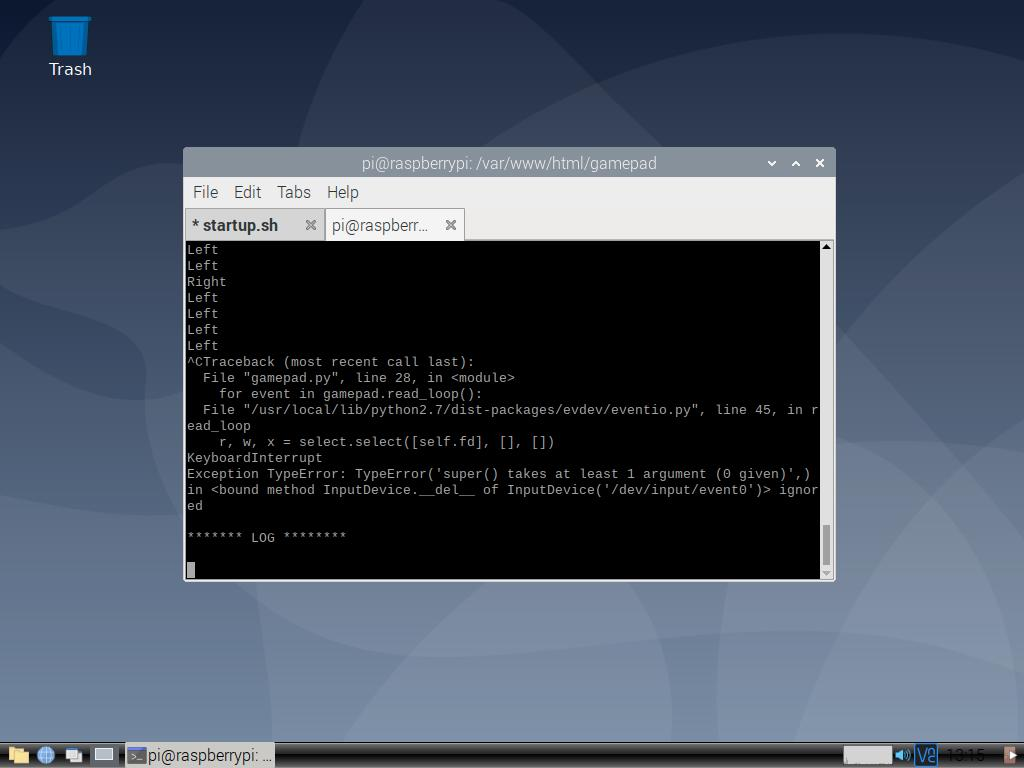
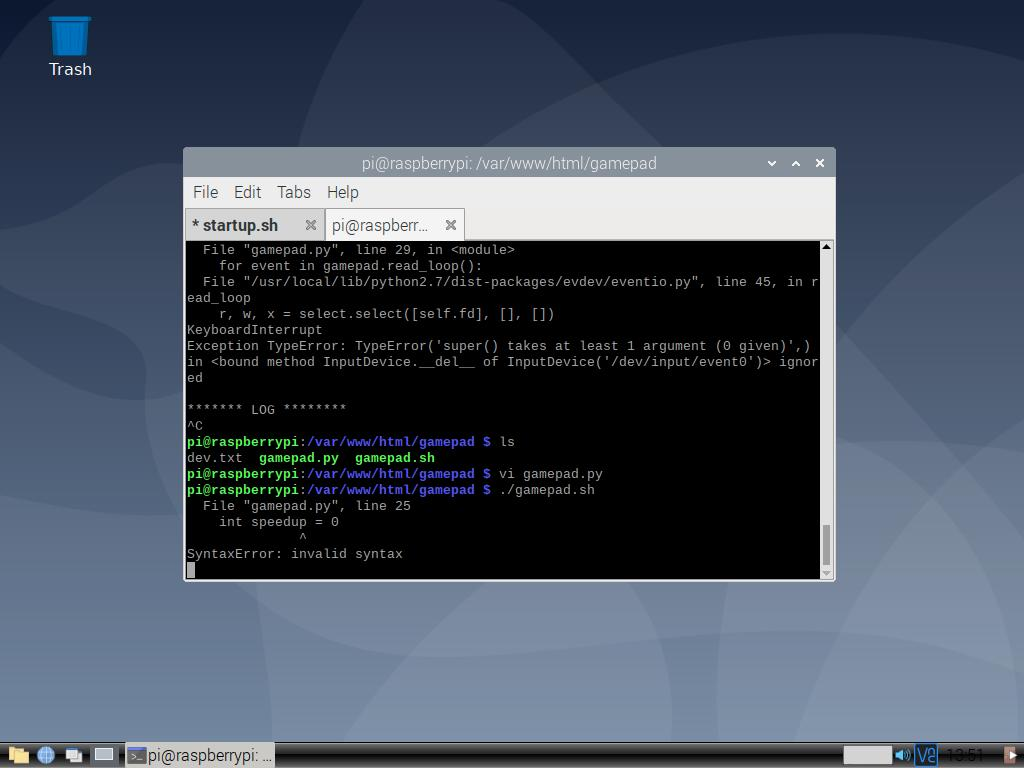
Add files to repo

diff --git a/gamepad/gamepad.py b/gamepad/gamepad.py
@@ -19,9 +19,10 @@ from evdev import InputDevice, categorize, ecodes
 gamepad = InputDevice('/dev/input/event0')
 print(gamepad)
 
-picar.setup()
 turnServo = Servo.Servo(0);
-bw = back_wheels.Back_Wheels();
+picar.setup()
+bw = picar.back_wheels.Back_Wheels()
+int speedup = 0
 
 
 
@@ -40,14 +41,23 @@ for event in gamepad.read_loop():
                 #explorerhat.motor.one.stop()
         elif event.code == 1:
             if event.value == 0:
-                bw.speed = 60
-                bw.forward()
+                if(speedup < 100):
+                    speedup = speedup * 2
+                bw.speed = speedup 
+                bw.backward`()
                 print("Up");#explorerhat.motor.two.forwards(event.value-155)
             elif event.value == 2:
-                bw.speed = 20;
-                bw.backward();
+                if(speedup < 50):
+                   speedup++
+                bw.speed = speedup 
+                bw.forward();
                 print("Down");#explorerhat.motor.two.backwards((100-event.value))
             else:
-                bw.stop()#turnServo.write(0);
+                if(speedup >= 1)
+                    bw.speed = speedup
+                    speedup = speedup - 5
+                if(speedup <= 0):
+                    bw.stop()#turnServo.write(0);
                 #explorerhat.motor.two.stop()
+                print("Stop")
 
